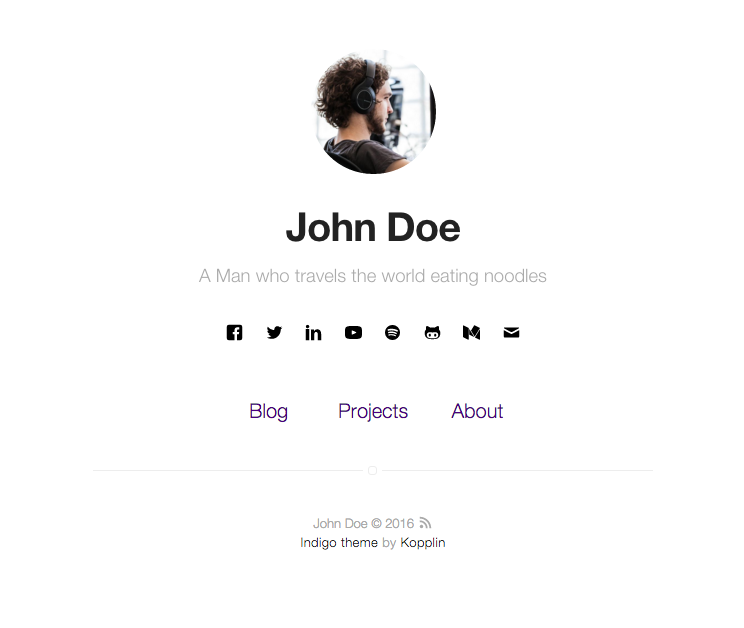
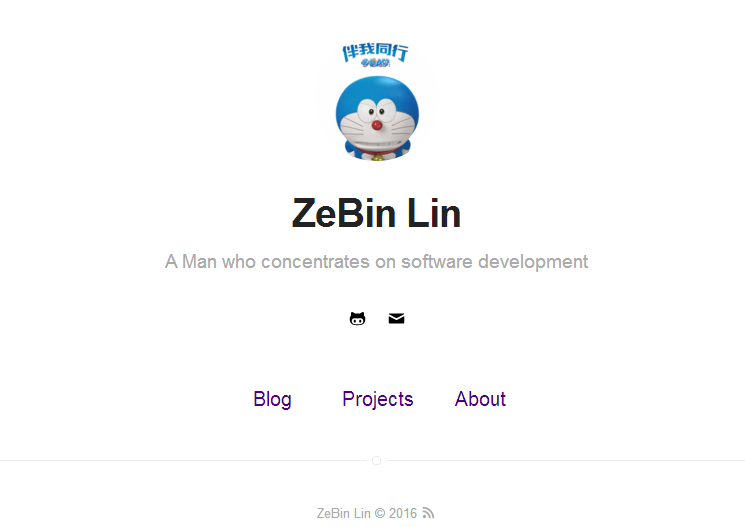
update README.md and so on

diff --git a/_includes/main.css b/_includes/main.css
@@ -162,8 +162,8 @@ h4 {
   font-size: 1.6rem;
 }
 a {
-  color: #4b0082;
-  text-decoration: underline;
+  color: #4078c0;
+  text-decoration: none;
 }
 p {
   line-height: 1.7;

diff --git a/README.md b/README.md
@@ -1,127 +1,35 @@
-## Indigo Minimalist Jekyll Template - [Demo](http://sergiokopplin.github.io/indigo/)
-[![Build Status](https://travis-ci.org/sergiokopplin/indigo.svg?branch=gh-pages)](https://travis-ci.org/sergiokopplin/indigo)
-
-This is a simple and minimalist template for Jekyll for those who likes to eat noodles.
+# ZeBin Lin's Website
 
 ***
 
+![Screenshot](screen-shot.png)
+
 <p align="center">
-    <b><a href="README.md#what-has-inside">What has inside?</a></b>
+    <b><a href="README.md#what-has-inside?">What has inside?</a></b>
     |
-    <b><a href="README.md#setup">Setup?</a></b>
+    <b><a href="README.md#blog">Blog</a></b>
     |
-    <b><a href="README.md#settings">Settings</a></b>
+    <b><a href="README.md#projects">Projects</a></b>
     |
-    <b><a href="README.md#tests">Tests</a></b>
-    |
-    <b><a href="README.md#showcase">Showcase</a></b>
-    |
-    <b><a href="README.md#contributions">Contributions</a></b>
-    |
-    <b><a href="README.md#problems">Problems</a></b>
-    |
-    <b><a href="README.md#update-your-fork">Update your fork</a></b>
-    |
-    <b><a href="README.md#license">License</a></b>
+    <b><a href="README.md#about">About</a></b>
 </p>
 
-![Screenshot](https://raw.githubusercontent.com/sergiokopplin/indigo/gh-pages/screen-shot.png)
 
 ---
 
 ## What has inside?
 
-- [Gulp](http://gulpjs.com/) && [BrowserSync](https://www.browsersync.io/)
-- [Stylus](http://stylus-lang.com/) with [RSCSS](http://rscss.io/) Methodology
-- [SVG](https://www.w3.org/Graphics/SVG/)
-- Tests with [Travis](https://travis-ci.org/)
-- No JS
-- Google Speed: [98/100](https://developers.google.com/speed/pagespeed/insights/?url=http%3A%2F%2Fsergiokopplin.github.io%2Findigo%2F)
+- Blog
+- Peojects
+- About
 
-# Setup
+## Blog
 
-0. :star: to the project. :metal:
-1. [Install Jekyll](http://jekyllrb.com)
-2. [Install NodeJS](https://nodejs.org/)
-3. [Install Bundler](http://bundler.io/)
-4. Fork the project [Indigo](https://github.com/sergiokopplin/indigo/fork)
-5. Edit `_config.yml` with your data.
-6. `bundle install`
-7. `npm install`
-8. `gulp`
-9. open in your browser: `http://localhost:3000`
+分享学习过程中的笔记和资料。
 
-> [Arti Annaswamy](https://github.com/aannasw) wrote a really nice tutorial of "how to install jekyll". Here's the [part 1](http://artiannaswamy.com/build-a-github-blog-part-1) and [part 2](http://artiannaswamy.com/build-a-github-blog-part-2). :metal:
+## Peojects
 
-# Settings
+暂时无项目
 
-You must fill some informations on `_config.yml` to customize your site.
-
-```
-name: John Doe
-bio: 'A Man who travels the world eating noodles'
-picture: 'assets/images/profile.jpg'
-
-url: http://YOURUSER.github.io
-# like: http://sergiokopplin.github.io
-permalink: /:title/
-
-analytics: 'UA-MYANALYTICS'
-disqus: mydisqus
-facebook: myfacebook
-twitter: mytwitter
-instagram: myinstagram
-linkedin: mylinkedin
-youtube: myyoutube
-spotify: myspotify
-github: mygithub
-medium: mymedium
-email: myemail@gmail.com
-
-...
-
-and lot of other options, like width, projects, pages, read-time, tags, relateds, animations, etc.
-```
-
-## Tests
-
-You can test your app with:
-
-```bash
-bundle exec htmlproof ./_site --verbose
-````
-
-If you want travis tests, you can take a look at:
-- [http://www.raywenderlich.com/109418/travis-ci-tutorial](http://www.raywenderlich.com/109418/travis-ci-tutorial)
-
-## Showcase
-
-- [fohlen.github.io](http://fohlen.github.io/) by @[Lennard Berger](https://github.com/Fohlen)
-- [gedankenstuecke.github.io](http://gedankenstuecke.github.io) by @[Bastian Greshake](https://github.com/gedankenstuecke)
-- [artiannaswamy.com](http://artiannaswamy.com/) by @[Arti Annaswamy](https://github.com/aannasw)
-
-> open a [pull-request](https://github.com/sergiokopplin/indigo/pulls) if you want your site in this awesome list
-
-## Contributions
-
-- [Breno da Mata](http://github.com/brenodamata)
-- [Wojciech Dzikowski](http://github.com/DzikowskiW)
-- [Siddhant Jain](http://github.com/siddhantjain)
-- [Jeanderson Barros Candido](http://github.com/jeandersonbc)
-- [Rootul Patel](http://github.com/rootulp)
-- [Bastian Greshake](http://github.com/gedankenstuecke)
-- [Phat Nguyen](http://github.com/npvinhphat)
-
-## Problems?
-
-Tell me on github or open a [issue](https://github.com/sergiokopplin/indigo/issues/new).
-
-### Update your fork.
-
-- [github.com/articles/syncing-a-fork/](https://help.github.com/articles/syncing-a-fork/)
-
----
-
-## License
-
-[MIT](http://kopplin.mit-license.org/) License © Sérgio Kopplin
+## About
+关于我的简单介绍。
